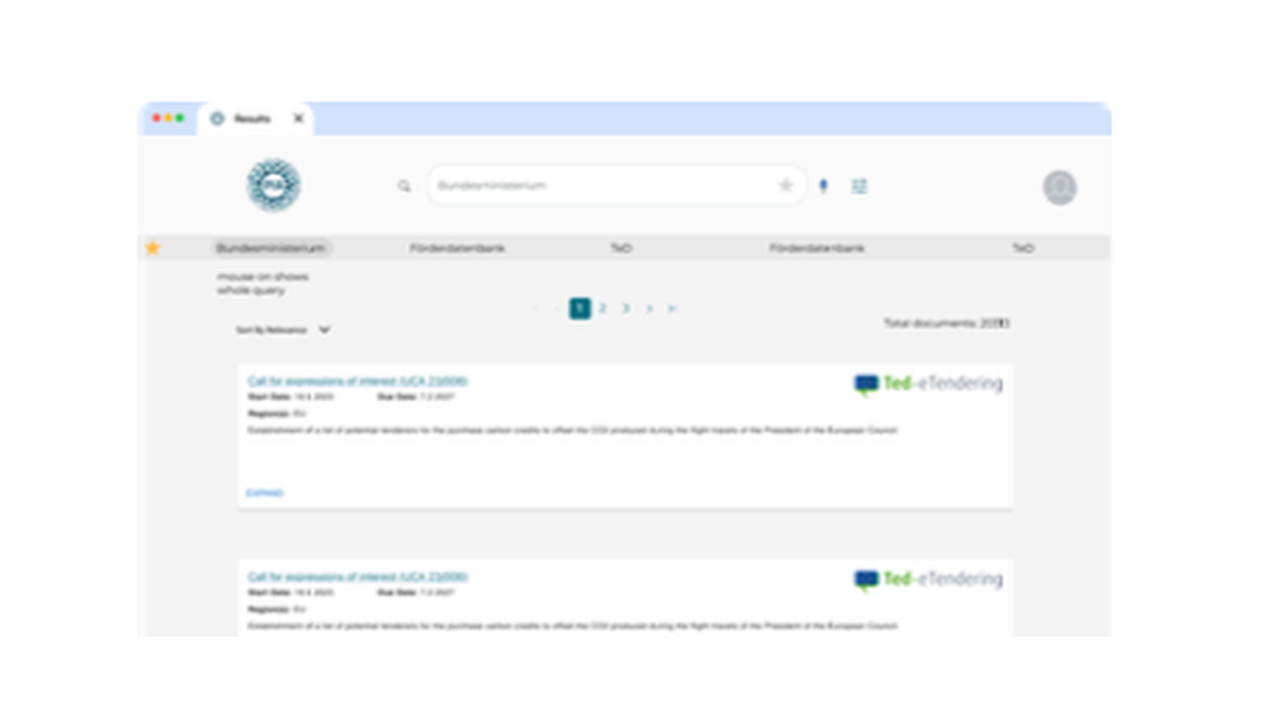
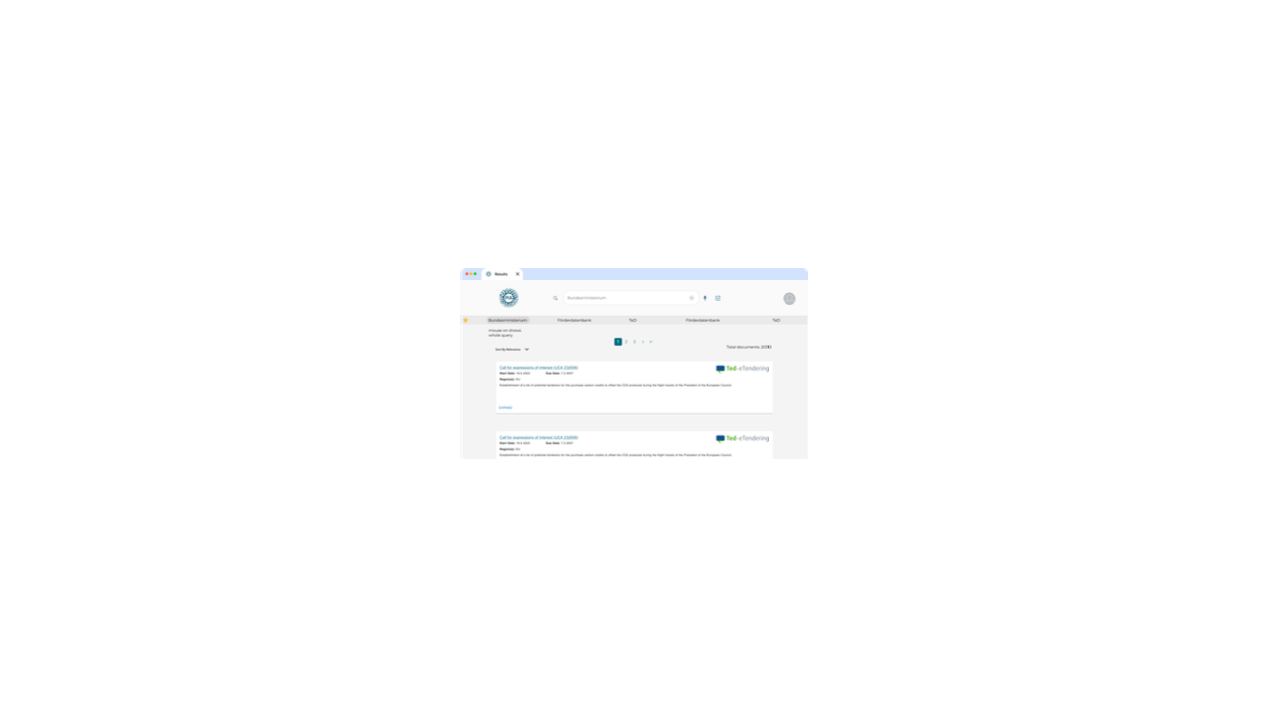
Fix site link, simplify AutoReview copy, sharpen PIA images
- Site label in header was unlinked text; now links to the live page
- AutoReview card description was too dense; shortened to one clean line
- PIA screenshots were upscaled past their native resolution and looked
  blurry; now capped at 1x scale so they render sharp (smaller within
  the frame, but crisp)

diff --git a/src/data/projects.js b/src/data/projects.js
@@ -28,7 +28,7 @@ export const projects = [
     tags: ["RAG", "LLM", "FastAPI", "React"],
     cover: `${BASE}works/a1hero.jpg`,     // du hast a1hero.jpg im public/works
     images: [`${BASE}works/a1hero.jpg`],  // später mehr hinzufügen
-    desc: "Automatisiert die Sichtung wissenschaftlicher Literatur mit KI — Screening-Pipeline getestet an 952 Papern mit 94 % Genauigkeit.",
+    desc: "Automatisiert die Sichtung wissenschaftlicher Literatur mit KI.",
     bullets: [
       "Modulare Pipeline (Onboarding → Discovery → Screening → Extraktion → RAG-Synthese), jede Stage einzeln auditierbar und wiederholbar",
       "Screening gegen den Synergy-Benchmark evaluiert (952 Paper): 94,4% Accuracy bei stark unausgeglichener Klassenverteilung",

diff --git a/src/App.jsx b/src/App.jsx
@@ -60,7 +60,14 @@ export default function App() {
             <div>
               <div className="metaTitle">{META.titleCenter}</div>
               <div className="metaSub">
-                <span className="smallLink">{META.site}</span>
+                <a
+                  className="smallLink"
+                  href="https://justinkohnke02.github.io/justinkohnke/"
+                  target="_blank"
+                  rel="noreferrer"
+                >
+                  {META.site}
+                </a>
               </div>
             </div>
 
